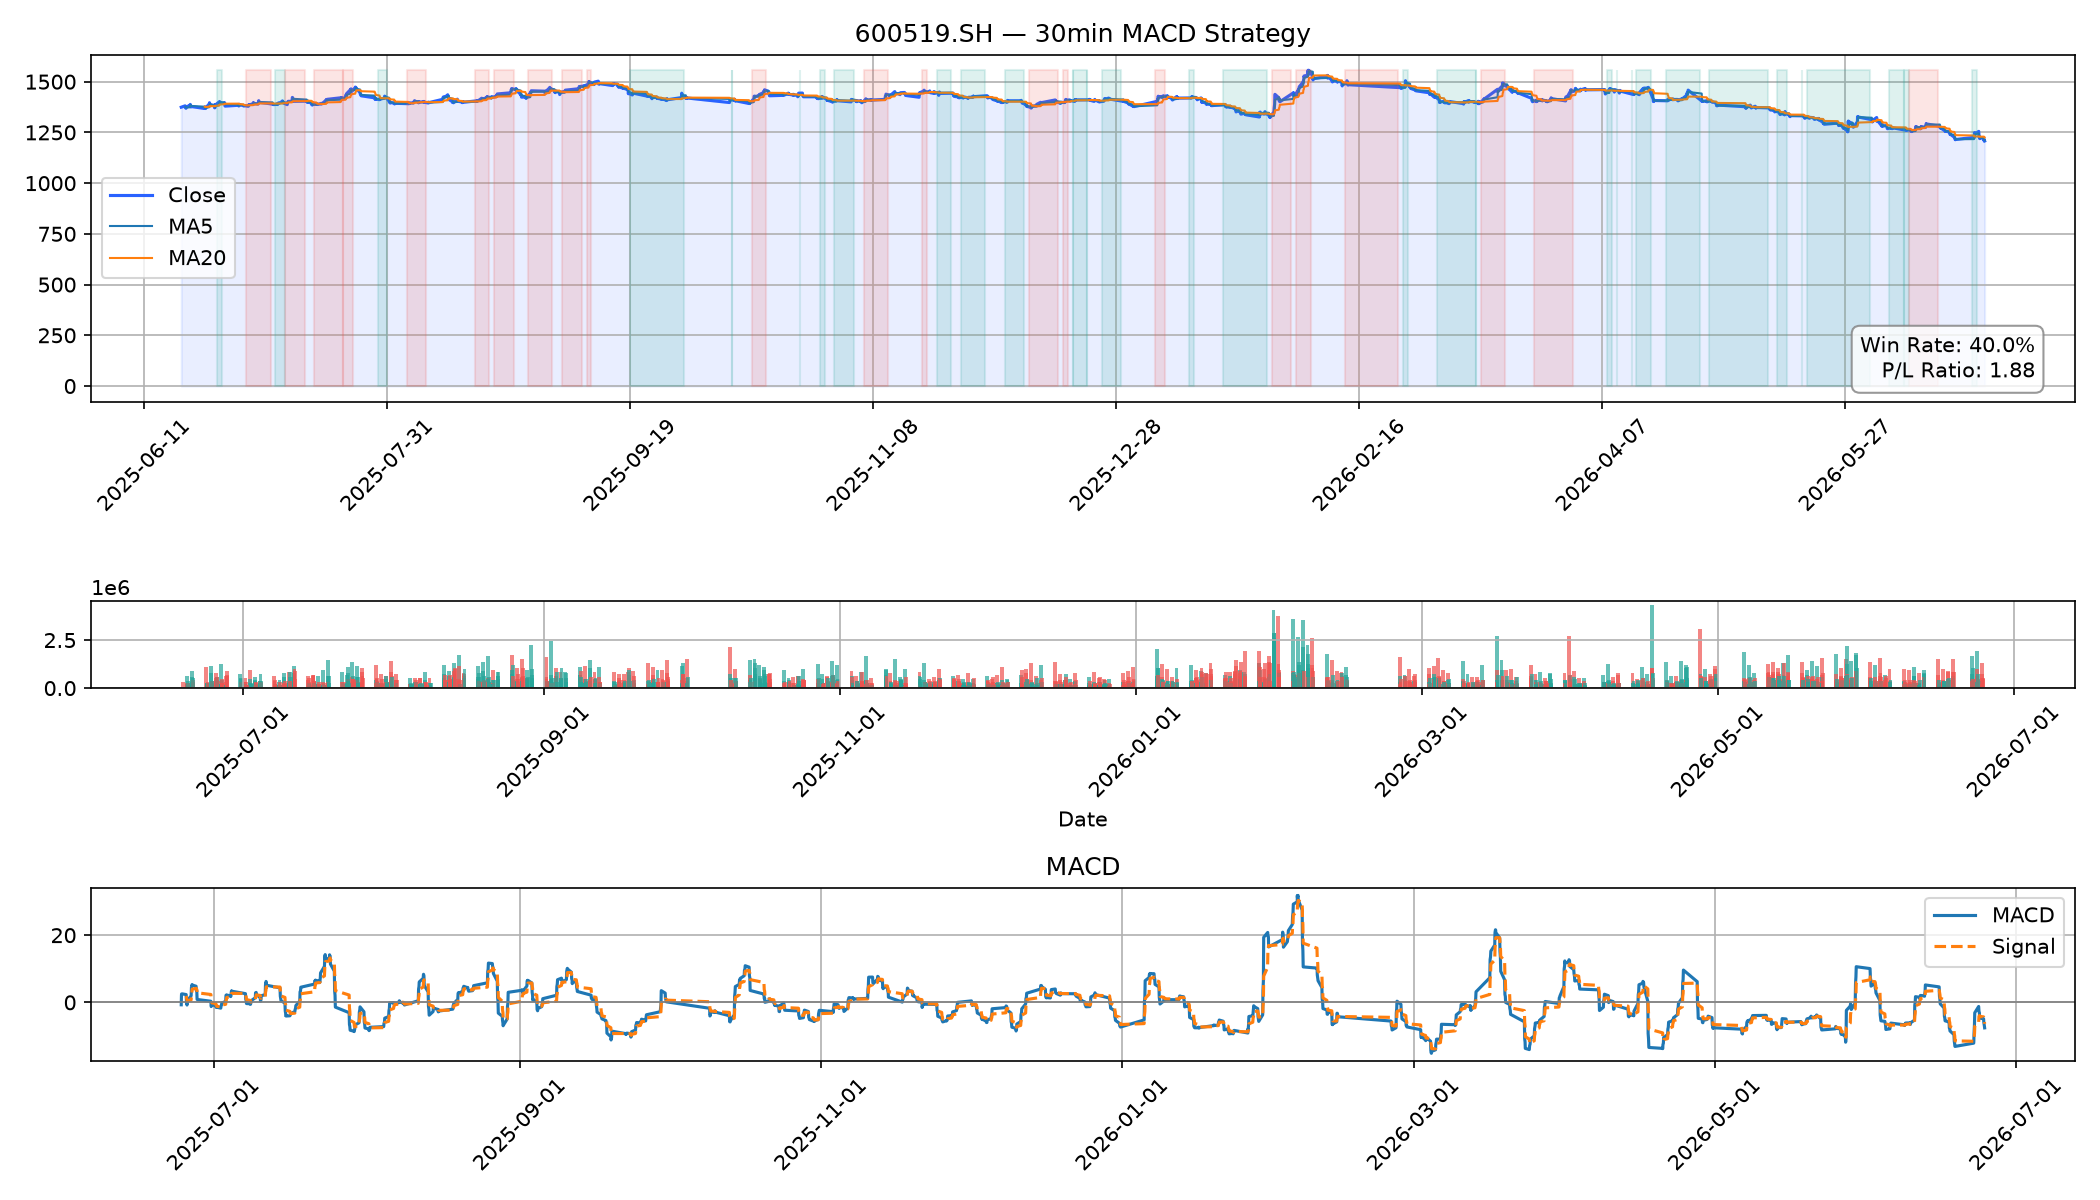
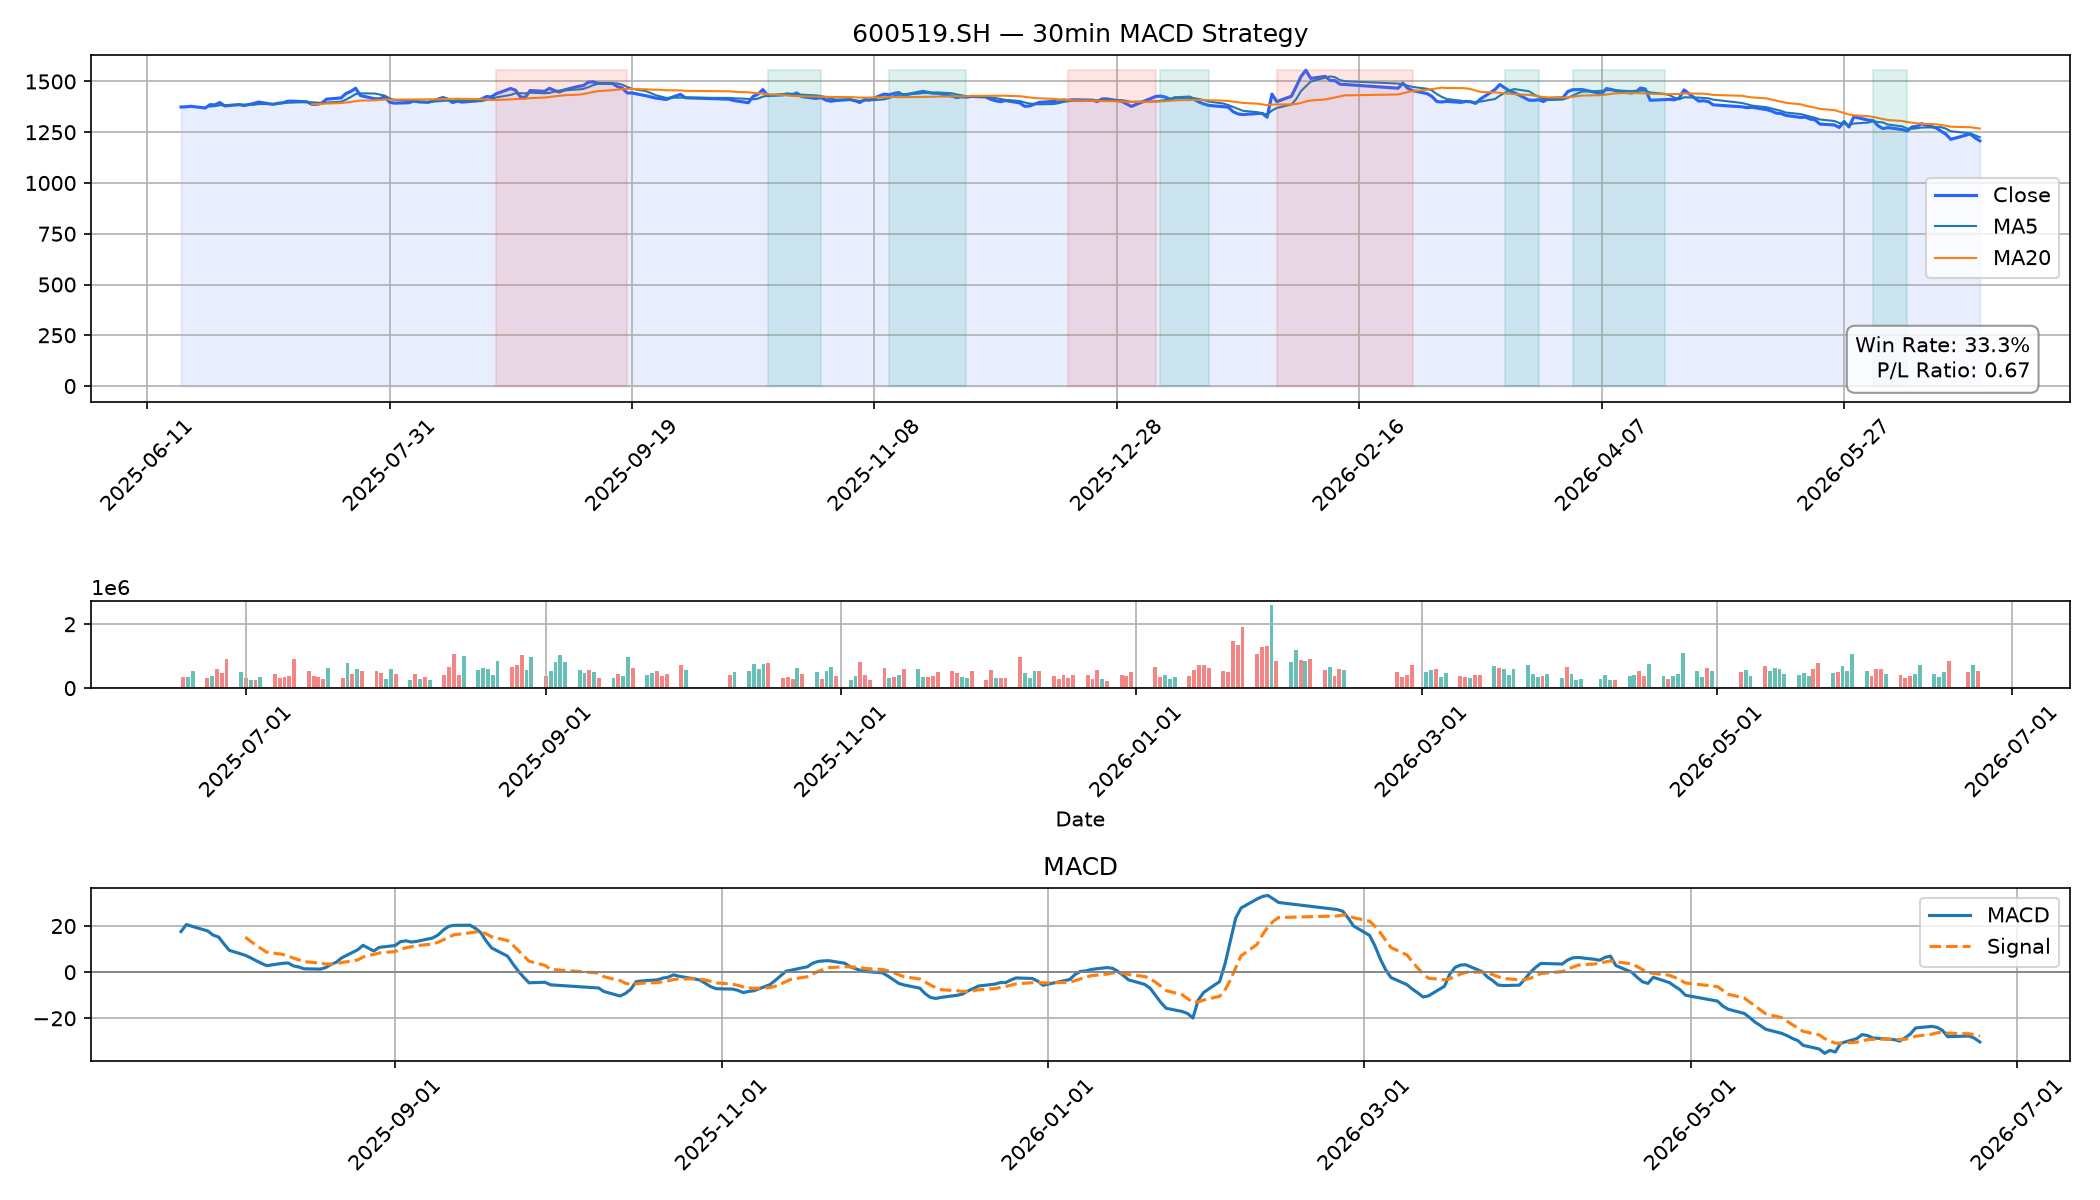
feat: 资金曲线改为收益率曲线 + 买入持有基准对比
- plot_equity_curve 新增 df 和 initial_cash 参数
- 蓝色: 策略收益率 (Strategy return)
- 橙色: 买入持有基准 (Buy & hold)

diff --git a/quantinvest/viz/plotter.py b/quantinvest/viz/plotter.py
@@ -278,14 +278,42 @@ def plot_kline(
 
 def plot_equity_curve(
     equity: pd.Series,
-    title: str = "Equity Curve",
+    df: pd.DataFrame,
+    initial_cash: float = 100_000.0,
+    title: str = "Return Curve",
     output: str | Path | None = None,
 ) -> None:
-    """Plot cumulative equity curve."""
+    """Plot strategy return rate vs buy-and-hold benchmark return.
+
+    Args:
+        equity: Equity curve from BacktestEngine (absolute values).
+        df: Original OHLCV DataFrame with 'close' column.
+        initial_cash: Starting capital for computing return rate.
+        title: Chart title.
+        output: Output file path or None to display.
+    """
     fig, ax = plt.subplots(figsize=(12, 5))
-    ax.plot(equity.index, equity.values, linewidth=1.5, color="#2962ff")
-    ax.fill_between(equity.index, equity.values, alpha=0.3)
+
+    # Strategy return rate: (equity - initial) / initial * 100%
+    strategy_return = (equity.values - initial_cash) / initial_cash * 100
+    ax.plot(
+        equity.index, strategy_return, linewidth=1.5, color="#2962ff", label="Strategy return"
+    )
+
+    # Buy-and-hold benchmark: (close - first_close) / first_close * 100%
+    close_values = df["close"].values
+    first_close = close_values[0]
+    benchmark_return = (close_values - first_close) / first_close * 100
+    ax.plot(
+        df.index, benchmark_return, linewidth=1.5, color="#ff9800", label="Buy & hold"
+    )
+
+    # Zero line
+    ax.axhline(0, color="gray", linewidth=0.8, linestyle="-")
+
     ax.set_title(title)
+    ax.set_ylabel("Return (%)")
+    ax.legend()
     ax.grid(True)
     _format_date(ax)
     fig.tight_layout()

diff --git a/examples/run_30min_backtest.py b/examples/run_30min_backtest.py
@@ -76,7 +76,9 @@ def main() -> None:
     equity = engine.get_equity_curve()
     plot_equity_curve(
         equity,
-        title=f"Equity Curve — {symbol} (30min)",
+        df=df_copy,
+        initial_cash=100_000.0,
+        title=f"Return Curve — {symbol} (30min)",
         output=output_dir / f"equity_{symbol.replace('.', '_')}_30min.png",
     )
 

diff --git a/examples/run_backtest.py b/examples/run_backtest.py
@@ -68,7 +68,9 @@ def main() -> None:
     equity = engine.get_equity_curve()
     plot_equity_curve(
         equity,
-        title=f"Equity Curve — {symbol}",
+        df=df_copy,
+        initial_cash=100_000.0,
+        title=f"Return Curve — {symbol}",
         output=output_dir / f"equity_{symbol.replace('.', '_')}.png",
     )
 